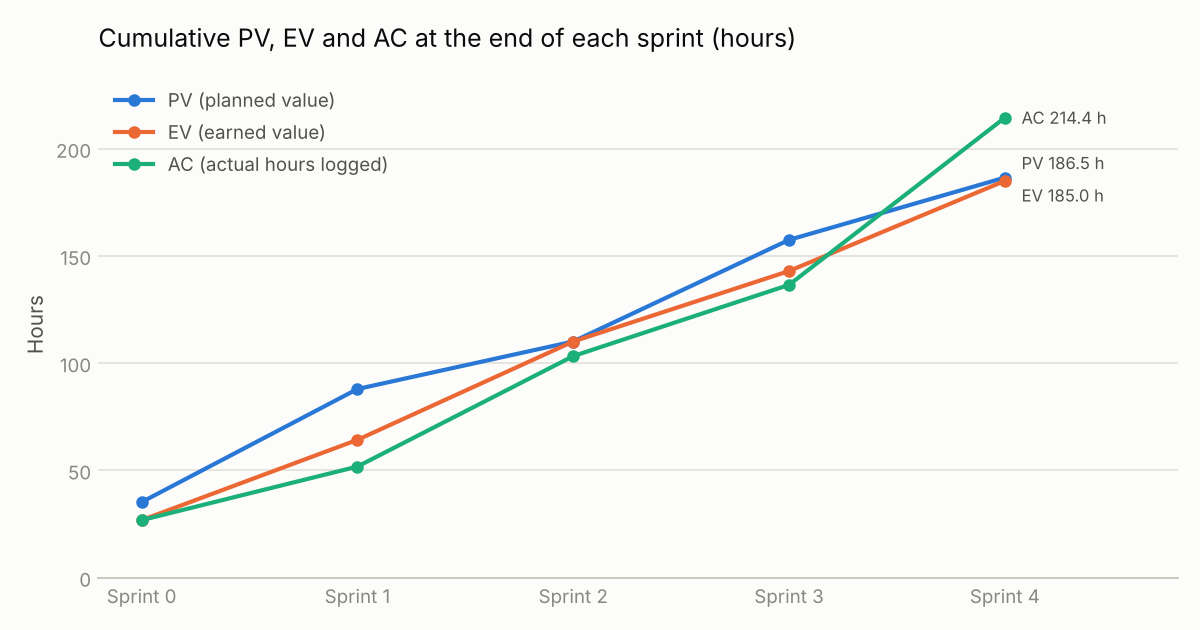
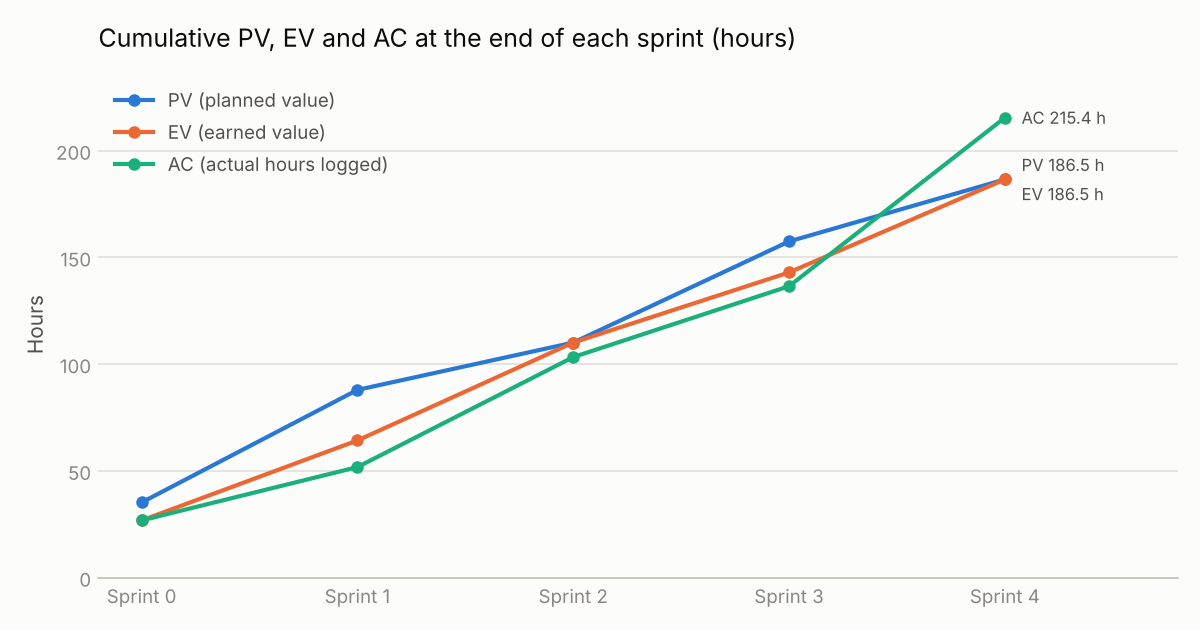
JT-100: record JT-72 as delivered in Sprint 4

diff --git a/docs/pm/sprint-4-review.md b/docs/pm/sprint-4-review.md
@@ -6,9 +6,9 @@
 | Owner | Jigden Shakya (Scrum Master). Backup: Kinley Tobgay Lhendrup |
 | Sprint | Sprint 4 (Jira sprint 38), the last sprint |
 | Sprint dates | 17 Nov 09:00 to 20 Nov 23:59 (extended by one day on 19 Nov; planned end 19 Nov 23:59, AGENTS.md Section 15) |
-| Closed in Jira | After the JT-100 pull request merges, before 20 Nov 23:59; JT-72 then moves to the backlog |
+| Closed in Jira | After the JT-100 pull request merges, before 20 Nov 23:59 |
 | Review and retrospective | Not held as a separate meeting on the last day. Written by Jigden from Jira, UAT and the earlier retrospectives, and reviewed by Phuntsho as Product Owner in the JT-100 pull request |
-| Data source | Jira sprint 38 and issue history, checked on 20 Nov 2026 at 17:15 |
+| Data source | Jira sprint 38 and issue history, checked on 20 Nov 2026 at 19:10 |
 | Related documents | `docs/pm/sprint-3-review.md`, `docs/pm/sprint-4-planning.md`, `docs/pm/earned-value-report.md`, `docs/pm/risk-register.md` (version 1.6), `docs/pm/project-closure-report.md`, `docs/testing/uat-script.md`, `docs/testing/test-summary-report.md`, AGENTS.md (Sections 14 and 15) |
 
 ---
@@ -17,19 +17,19 @@
 
 Goal: End-to-end and load tests, UAT, bug fixes, monitoring, all documentation, feature freeze. Committed minimum: the Must tasks (39 points).
 
-Outcome: met. All 14 Must tasks (39 points) are Done, and 7 of the 8 Should tasks (16 of 18 points). In total 21 of 22 tasks and 55 of 57 points, the highest completion of any sprint. JT-100 is counted as Done because this document is part of it; it is Done when its pull request merges. The goal was met only with the one-day extension agreed on 19 Nov.
+Outcome: met. All 22 tasks and all 57 points are Done: the 14 Must tasks (39 points) and the 8 Should tasks (18 points). It is the only sprint that finished all of its planned work. JT-100 is counted as Done because this document is part of it; it is Done when its pull request merges. The goal was met only with the one-day extension agreed on 19 Nov.
 
 What was delivered:
 
 - The last function, notification-dispatcher (JT-71), and all 5 functions deployed to Knative in k3d with their triggers verified (JT-92). Its Compose forwarder and queue were added by the JT-105 fix.
-- The job-search read model (JT-69), the saved-jobs `job.closed` consumer (JT-70), `ListJobSavers` pagination and the internal interceptor (JT-91), and `job.closed` on moderation removal (JT-90).
+- The audit-log consumer for all domain events (JT-72), the job-search read model (JT-69), the saved-jobs `job.closed` consumer (JT-70), `ListJobSavers` pagination and the internal interceptor (JT-91), and `job.closed` on moderation removal (JT-90).
 - The frontend job pages, job search, saved jobs and notifications (JT-73), the frontend polish with an MUI theme and shared layout (JT-101), the company logo on the company page and job cards (JT-102) and the applicant profile photo (JT-103).
 - Logging of unexpected gRPC errors through `pkg/logging.GRPCError` (JT-66).
 - Prometheus and Grafana in Docker Compose (JT-93), and the architecture and deployment documentation (JT-94).
 - Cypress end-to-end tests of the main workflow against the running Compose stack (JT-95), the JMeter run with 200 concurrent users (JT-96) and the final test summary report (JT-97).
 - UAT for applicant, employer and admin (JT-99), and fixes for all four bugs it found (JT-105 to JT-108).
 
-Not delivered: JT-72 (audit-log consumer, Should, 2 points). Following the slip order (AGENTS.md Section 14), it is recorded as not delivered instead of moving, because there is no Sprint 5. See Section 3.
+Not delivered: nothing. JT-72 (audit-log consumer), last in the slip order, was started on the evening of 20 Nov while JT-100 was in review and merged at 19:07 (PR #102).
 
 ---
 
@@ -38,14 +38,14 @@ Not delivered: JT-72 (audit-log consumer, Should, 2 points). Following the slip 
 | Measure | Tasks | Story points |
 |---|---|---|
 | Planned | 22 | 57 |
-| Done in Sprint 4 | 21 | 55 |
-| Not delivered | 1 (JT-72) | 2 |
+| Done in Sprint 4 | 22 | 57 |
+| Not delivered | 0 | 0 |
 | Must (High): planned / done | 14 / 14 | 39 / 39 |
-| Should (Medium): planned / done | 8 / 7 | 18 / 16 |
+| Should (Medium): planned / done | 8 / 8 | 18 / 18 |
 
-- Velocity (story points Done in the sprint): 55, compared with 43 in Sprint 3, 60 in Sprint 2 (over 5 days), 49 in Sprint 1 and 35 in Sprint 0.
+- Velocity (story points Done in the sprint): 57, compared with 43 in Sprint 3, 60 in Sprint 2 (over 5 days), 49 in Sprint 1 and 35 in Sprint 0.
 - Velocity per day: about 14 over 4 days (17 to 20 Nov), the same as Sprint 3.
-- Completion: 21 of 22 tasks (95 percent) and 55 of 57 points (96 percent).
+- Completion: 22 of 22 tasks and 57 of 57 points (100 percent).
 - Hours logged in the sprint: see `docs/pm/earned-value-report.md` Section 3. Sprint 4 had the highest hours per point of any sprint, because it was mostly testing, UAT and documentation and included bug fixes without points.
 - R1 day 2 check (18 Nov, 17:00): 2 of 57 points Done or In Review, below the trigger of 29, so the trigger fired. At midday on 19 Nov 22 of 39 Must points were Done, which led to the one-day extension agreed by Phuntsho and Jigden (JT-67).
 - Work without points in the sprint: JT-104 (SonarQube finding) and the UAT bugs JT-105 to JT-108. Their hours count as actual cost but they add no points.
@@ -58,15 +58,15 @@ By Jira assignee on 20 Nov.
 |---|---|---|---|---|---|
 | Phuntsho Namgyel | 14 | 5 of 5 (JT-66, JT-73, JT-93, JT-94, JT-101) | 14 | | JT-106, JT-107, JT-108 |
 | Kinley Tobgay Lhendrup | 15 | 5 of 5 (JT-84, JT-95, JT-96, JT-97, JT-103) | 15 | | JT-104 |
-| Jigden Shakya | 16 | 7 of 8 (JT-67, JT-70, JT-90, JT-98, JT-99, JT-100, JT-102) | 14 | JT-72 (2) | |
+| Jigden Shakya | 16 | 8 of 8 (JT-67, JT-70, JT-72, JT-90, JT-98, JT-99, JT-100, JT-102) | 16 | | |
 | Sangay Tenzin | 12 | 4 of 4 (JT-69, JT-71, JT-91, JT-92) | 12 | | JT-105 |
-| Total | 57 | 21 of 22 | 55 | 2 | 5 bugs |
+| Total | 57 | 22 of 22 | 57 | 0 | 5 bugs |
 
 ---
 
 ## 3. Task outcomes
 
-Owner is the Jira assignee. Status as of 20 Nov 2026, 17:15.
+Owner is the Jira assignee. Status as of 20 Nov 2026, 19:10.
 
 | Key | Summary | Owner | Priority | Points | Result |
 |---|---|---|---|---|---|
@@ -75,7 +75,7 @@ Owner is the Jira assignee. Status as of 20 Nov 2026, 17:15.
 | JT-69 | Job-search: build the read model from job events (carried over) | Sangay | Must | 2 | Done |
 | JT-70 | Saved-jobs: consume job.closed (carried over) | Jigden | Should | 1 | Done |
 | JT-71 | Implement notification-dispatcher Knative function (carried over) | Sangay | Must | 5 | Done (Compose event delivery fixed in JT-105) |
-| JT-72 | Audit-log: consume all domain events (carried over) | Jigden | Should | 2 | Not delivered |
+| JT-72 | Audit-log: consume all domain events (carried over) | Jigden | Should | 2 | Done (PR #102, 20 Nov) |
 | JT-73 | Frontend: employer job pages, job search, saved jobs and notifications (carried over) | Phuntsho | Must | 3 | Done |
 | JT-84 | Sprint 3 SonarQube run and JMeter deadline-rush scenario preparation (carried over) | Kinley | Should | 2 | Done |
 | JT-90 | job-posting: removing a job through moderation does not publish job.closed (bug) | Jigden | Must | 2 | Done |
@@ -105,9 +105,7 @@ Owner is the Jira assignee. Status as of 20 Nov 2026, 17:15.
 
 ### Not delivered
 
-| Key | Summary | Owner | Points | Reason |
-|---|---|---|---|---|
-| JT-72 | Audit-log: consume all domain events | Jigden | 2 | Last in the agreed slip order (among Jigden's tasks it slips before JT-67 and JT-70); not started, so that the Must work, JT-102 and the closure documents were finished first. Audit-log has no consumer (`services/audit-log` has only the template publisher, checked on 20 Nov), so the admin audit log page stays empty and UAT-AD-07 could not be run. Jira links three merged pull requests to JT-72, but no commit on `main` carries its key and none of them adds the consumer |
+None. The slip order (JT-66 first, then JT-102 and JT-103, then the other Should tasks; among Jigden's, JT-72 before JT-67 and JT-70) was prepared but in the end no task had to be dropped.
 
 ### Work outside the sprint
 
@@ -122,7 +120,7 @@ UAT (JT-99, 19 Nov 2026, `docs/testing/uat-script.md`, PR #88): 34 scenarios, 29
 Not run:
 
 - UAT-AP-05: no job alert existed before the job was published, so the alert match could not be observed.
-- UAT-AD-07: the audit log stays empty without the audit-log consumer (JT-72, not delivered).
+- UAT-AD-07: the audit log was empty because the audit-log consumer did not exist yet. JT-72 added it on 20 Nov and verified in Docker Compose that an admin sees a new event in the audit log; the UAT scenario itself was not rerun.
 
 Product Owner sign-off (Phuntsho, 19 Nov 2026): Accepted with conditions. All conditions were met by 20 Nov 23:59.
 
@@ -138,18 +136,17 @@ Known issues at closure: none from UAT. The remaining limitations are listed in 
 Future improvements (not part of this project):
 
 - Employer access to applicant resumes during review (AGENTS.md Section 16 open question). Approved for backlog consideration only; no Jira issue yet. Needs Phuntsho's authorisation and a contract review.
-- The audit-log consumer (JT-72), in the backlog.
 
 ---
 
 ## 5. What went well
 
 - Every Must task was finished, including all three Sprint 3 carryover Musts (JT-69, JT-71, JT-73). Sangay finished all four of his Must tasks, including the deployment path JT-71 then JT-92.
-- 7 of 8 Should tasks were delivered as well, so only 2 of 57 points were dropped. Sprint 4 had the highest completion rate of the project.
+- All 8 Should tasks were delivered as well, so no points were dropped. Sprint 4 is the only sprint that finished all of its planned work.
 - All 5 functions run on Knative in k3d with their triggers verified (JT-92), meeting the agreed WEB303 deployment scope.
 - The Sprint 3 testing gap was closed: Cypress runs the main workflow against the real Compose stack (JT-95), the 200-user JMeter run finished with 0 errors (JT-96), monitoring is in place (JT-93), and `application` and `application-status` meet the 80 percent coverage target (JT-97).
 - UAT with the Product Owner verified the core workflow, and all four bugs it found were fixed within about a day, including the two that were only expected to be documented.
-- The slip order agreed on 18 Nov was clear, so the one task that did not fit was dropped without discussion.
+- The slip order agreed on 18 Nov made clear which task would go first, so the team could finish the Must work and the closure documents before starting JT-72, the last Should task.
 
 ---
 
@@ -170,20 +167,20 @@ These are the final retrospective points. Because there is no next sprint, they 
 
 | Sprint 3 action | Result |
 |---|---|
-| Reassign the carryovers: JT-73 to Phuntsho, JT-72 and JT-70 to Jigden, with Sangay reviewing | Done at Sprint 4 planning on 17 Nov. JT-73 and JT-70 were Done; JT-72 was not delivered |
+| Reassign the carryovers: JT-73 to Phuntsho, JT-72 and JT-70 to Jigden, with Sangay reviewing | Done at Sprint 4 planning on 17 Nov. JT-73, JT-70 and JT-72 were all Done |
 | Check every Must task at each stand-up and reassign through the handover rule the same day | All Must tasks were finished, so no further reassignment was needed; the remaining Musts were covered by the one-day extension |
-| Follow the slip order: JT-66, then JT-102 and JT-103, then other Should tasks; never cut a Must | Followed: no Must was cut. JT-66, JT-102 and JT-103 were finished in the end, and only JT-72, last among Jigden's Should tasks, slipped |
+| Follow the slip order: JT-66, then JT-102 and JT-103, then other Should tasks; never cut a Must | Followed: no Must was cut. JT-72, last among Jigden's Should tasks, was left until the Must work and JT-100 were in review, and was then finished on 20 Nov |
 | Replace the stubbed Cypress tests with real end-to-end tests against Docker Compose (JT-95) | Done |
 | Add Prometheus and Grafana to Docker Compose (JT-93) | Done |
-| Record unfinished Should tasks as not delivered in the closure report (JT-100) | Done in Section 3 and in the closure report |
+| Record unfinished Should tasks as not delivered in the closure report (JT-100) | Not needed: every Should task was finished (Section 3) |
 | Estimate every task before it is added to the sprint, including bugs | Not met: JT-104 to JT-108 have no points |
-| Verify each new event end to end in Docker Compose before moving its task to Done | Not met for JT-71 (found in UAT as JT-105); met for JT-70 and JT-90 |
+| Verify each new event end to end in Docker Compose before moving its task to Done | Not met for JT-71 (found in UAT as JT-105); met for JT-70, JT-72 and JT-90 |
 
 ---
 
 ## 8. Risks
 
-- R1 (schedule overrun): occurred. The day 2 trigger fired on 18 Nov and Sprint 4 needed a one-day extension; with it, all Must work and all but one Should task were finished.
+- R1 (schedule overrun): occurred. The day 2 trigger fired on 18 Nov and Sprint 4 needed a one-day extension; with it, all planned work was finished.
 - R6 (uneven workload): the reassignment on 17 Nov worked; every member finished all their Must tasks.
 - R2 (Knative and RabbitMQ): all 5 functions were deployed and their triggers verified in k3d (JT-92), and the Compose forwarder for notification-dispatcher was added in JT-105.
 - R8 (load test): the 200-user run finished with 0 errors without straining the host (JT-96).
@@ -193,6 +190,5 @@ These are the final retrospective points. Because there is no next sprint, they 
 
 ## 9. Open items at close
 
-- JT-72 (audit-log consumer) is in the backlog; until it is built, the admin audit log page stays empty.
 - AGENTS.md Section 16 still says notification-dispatcher has no Compose forwarder; JT-105 (PR #90) added it, so that line should be removed in the next AGENTS.md update.
 - Sprint 4 is closed in Jira after this pull request merges.

diff --git a/docs/pm/project-closure-report.md b/docs/pm/project-closure-report.md
@@ -30,8 +30,8 @@ The project is the combined final project for WEB303 (Microservices and Serverle
 | Start | 28 Oct 2026 (proposal plan) | 2 Nov 2026 (moved on 1 Nov because of other coursework) |
 | Completion | 17 Nov 2026 (5 Nov baseline) | 20 Nov 2026 (revised to 19 Nov on 11 Nov, extended to 20 Nov on 19 Nov) |
 | Team | 4 members in two pairs | 4 members; work reassigned within pairs on 9 Nov and 17 Nov, ownership unchanged |
-| Scope | 244 story points in Jira (Sprints 0 to 4) | 242 points Done; only JT-72 (2 points) not delivered |
-| Effort | No hours were planned; baseline 186.5 h at the Sprint 0 rate | 214.4 h logged in Jira |
+| Scope | 244 story points in Jira (Sprints 0 to 4) | 244 points Done; all planned work delivered |
+| Effort | No hours were planned; baseline 186.5 h at the Sprint 0 rate | 215.4 h logged in Jira |
 | System | 20 microservices, gateway, 5 Knative functions, React frontend | All built; the 20 services and the gateway run in Docker Compose, the 5 functions run on Knative in k3d |
 | Tools | Jira (space JT), GitHub, GitHub Actions | As planned |
 
@@ -44,7 +44,7 @@ The project is the combined final project for WEB303 (Microservices and Serverle
 | O1 | Establish the development foundation and contracts | Repo, `.proto` contracts for all 20 services, golden template, CI, Docker Compose and a proven cluster setup by 3 Nov | Contracts for all 20 services were agreed in PR #6 on 3 Nov; golden template, CI and Compose were set up in Sprint 0. The cluster spike (JT-29) was verified on 7 Nov, four days after Sprint 0 ended, and selected the forwarder fallback for RabbitMQ events | Met, with the cluster setup late |
 | O2 | Build and deploy the full system | All 20 microservices, the gateway, 5 functions and the frontend running; the main workflow works end to end on the k3d cluster | The main workflow was verified end to end in Docker Compose by Cypress (JT-95) and UAT (JT-99), with notifications working after JT-105. On 18 Nov the Product Owner agreed a reduced k3d scope: all 5 functions run on Knative in k3d (JT-92) and the 20 services stay in Docker Compose, because capacity for all 20 services in k3d was not proven | Partly met: the workflow runs in Compose, not on k3d (agreed change) |
 | O3 | Prove quality through systematic testing | At least 80 percent line coverage on `application` and `application-status`; contract checks in CI; Cypress end-to-end tests; JMeter load test with 200 users; results documented | Coverage (unit plus integration): `application` 94.4 percent, `application-status` 91.1 percent. `buf breaking` and 34 contract tests run in CI. 192 Cypress GUI tests run in CI, and the 11-step end-to-end workflow passes against the running stack (JT-95). The 200-user JMeter run had 0 errors (JT-96). On the final `main` all 1,383 Go test functions pass. Results are in `docs/testing/test-summary-report.md` (JT-97) | Met |
-| O4 | Manage the project with Scrum and PMBOK artefacts | Ceremonies held; Jira current with time logged; risk register reviewed every retrospective; earned value from Jira time logs; lessons learned at closure | Planning, reviews and retrospectives were recorded for Sprints 1 to 4 (the Sprint 3 review was held within Sprint 4 planning, the Sprint 4 review was written and reviewed in its pull request, and Sprint 0 has no review record). Every issue except JT-72 has hours logged. The risk register was reviewed at every review (versions 1.0 to 1.6). Earned value: `docs/pm/earned-value-report.md`. Lessons learned: Section 11 | Met, with gaps in the ceremony records |
+| O4 | Manage the project with Scrum and PMBOK artefacts | Ceremonies held; Jira current with time logged; risk register reviewed every retrospective; earned value from Jira time logs; lessons learned at closure | Planning, reviews and retrospectives were recorded for Sprints 1 to 4 (the Sprint 3 review was held within Sprint 4 planning, the Sprint 4 review was written and reviewed in its pull request, and Sprint 0 has no review record). Every issue has hours logged. The risk register was reviewed at every review (versions 1.0 to 1.6). Earned value: `docs/pm/earned-value-report.md`. Lessons learned: Section 11 | Met, with gaps in the ceremony records |
 
 ---
 
@@ -69,6 +69,7 @@ The project is the combined final project for WEB303 (Microservices and Serverle
 - 5 Knative functions: notification-dispatcher, email-sender, weekly-summary, resume-validator and deadline-reminder, deployed to k3d with their triggers verified (JT-92).
 - Domain events over RabbitMQ with transactional outboxes, idempotent consumers and a shared retry and dead-letter policy (JT-56, JT-61).
 - React frontend for applicants, employers and admins (JT-78, JT-83, JT-88, JT-73), with a shared MUI theme (JT-101), company logos (JT-102), applicant profile photos (JT-103) and sessions kept across page reloads (JT-106).
+- Audit-log consumes every domain event (JT-72), so the admin audit log page shows the event history.
 - Docker Compose for local running, CI with GitHub Actions, Prometheus and Grafana in Compose (JT-93) and logging of unexpected gRPC errors (JT-66).
 - Tests: unit, integration (Testcontainers), contract, Cypress GUI and end-to-end against the Compose stack, the JMeter load test and SonarQube runs.
 
@@ -77,7 +78,6 @@ The project is the combined final project for WEB303 (Microservices and Serverle
 | Item | Charter reference | What happened | Decision |
 |---|---|---|---|
 | Main workflow on the k3d cluster | O2 | 20 services stay in Docker Compose; only the 5 functions run in k3d | Agreed with the Product Owner on 18 Nov (AGENTS.md Section 15); to be confirmed against the WEB303 requirements (Phuntsho) |
-| Audit-log consumer (JT-72, Should, 2 points) | Section 4.1, Audit Log | Not started; audit-log stores no events, so the admin audit log page is empty | Recorded as not delivered following the Sprint 4 slip order; in the backlog |
 | Recording interview outcomes | Section 4.1, Interview | `interview.proto` has no outcome field or RPC; only scheduling and reading were built (JT-52) | Needs a contract change; not agreed (AGENTS.md Section 16) |
 | Employer view of applicant resumes | Section 3, review step | `GetResume` and `DownloadResume` are owner only | Open question; backlog consideration only (Section 10) |
 | Kubernetes manifests for the 20 services | Section 5, development; AGENTS.md Section 8 | `deploy/k8s` has only the `service-template` base; no service has Kustomize manifests | Follows from the reduced k3d scope agreed on 18 Nov, where the services run only in Docker Compose |
@@ -110,11 +110,11 @@ Baseline: the Option B dates agreed on 5 Nov 2026. Revised: the schedule agreed 
 | M2 Sprint 1 complete | 8 Nov | 8 Nov | 8 Nov | Goal partly met: 15 of 26 tasks, 49 of 80 points |
 | M3 Sprint 2 complete | 11 Nov | 13 Nov | 13 Nov | Goal met with the two-day extension: 60 of 60 points |
 | M4 Sprint 3 complete | 14 Nov | 16 Nov | 16 Nov | Goal not met: 17 of 25 tasks, 43 of 62 points, 34 of 44 Must points |
-| M5 Sprint 4 complete | 17 Nov | 19 Nov | 20 Nov | Goal met with the one-day extension: 21 of 22 tasks, 55 of 57 points, all 39 Must points |
+| M5 Sprint 4 complete | 17 Nov | 19 Nov | 20 Nov | Goal met with the one-day extension: all 22 tasks and 57 points |
 | M6 Project completion | 17 Nov | 19 Nov | 20 Nov | Three days later than the baseline |
 | M7 Final presentation | To be announced | To be announced | Not yet | Open (R10) |
 
-Velocity (story points Done): 35, 49, 60, 43 and 55 in Sprints 0 to 4. The velocity chart, the burndown charts for every sprint and the per-sprint figures are in `docs/pm/earned-value-report.md`.
+Velocity (story points Done): 35, 49, 60, 43 and 57 in Sprints 0 to 4. The velocity chart, the burndown charts for every sprint and the per-sprint figures are in `docs/pm/earned-value-report.md`.
 
 ---
 
@@ -126,14 +126,14 @@ The project had no funding (charter Section 8). Cost is measured as hours logged
 |---|---|
 | BAC | 244 points, 186.5 h |
 | PV | 244 points, 186.5 h |
-| EV | 242 points, 185.0 h |
-| AC | 214.4 h |
-| SV | -2 points (-1.5 h) |
-| CV | -29.5 h |
-| SPI | 0.99 |
-| CPI | 0.86 |
+| EV | 244 points, 186.5 h |
+| AC | 215.4 h |
+| SV | 0 points (0 h) |
+| CV | -28.9 h |
+| SPI | 1.00 |
+| CPI | 0.87 |
 
-Interpretation: almost all of the planned scope was delivered (SPI 0.99), but only by adding three days to the schedule, which a point-based SPI does not show. The CPI stayed above 1 until Sprint 3 and fell to 0.86 in Sprint 4, which was mostly testing, UAT and documentation and included bug fixes without points: the project used about 15 percent more hours than the Sprint 0 rate predicts.
+Interpretation: all of the planned scope was delivered (SPI 1.00), but only by adding three days to the schedule, which a point-based SPI does not show. The CPI stayed above 1 until Sprint 3 and fell to 0.87 in Sprint 4, which was mostly testing, UAT and documentation and included bug fixes without points: the project used about 16 percent more hours than the Sprint 0 rate predicts.
 
 ---
 
@@ -144,7 +144,7 @@ Interpretation: almost all of the planned scope was delivered (SPI 0.99), but on
 - Load test (JT-96): 200 concurrent users, 2,003 requests, 0 errors; all 200 simultaneous applications were created within about 77 ms.
 - UAT (JT-99, 19 Nov): 34 scenarios, 29 Pass, 3 Fail, 2 Not run; the core workflow was verified end to end with no Critical defects. Product Owner sign-off: Accepted with conditions.
 - All conditions were met by 20 Nov: JT-105 and JT-107 (Major) were fixed and UAT-EM-05, UAT-EM-07 and UAT-AP-07 passed on retest; JT-108 (Major) and JT-106 (Minor), which were only to be documented, were fixed as well.
-- Known issues at closure: no open bug from UAT. UAT-AD-07 (audit log) could not be run because JT-72 was not delivered.
+- Known issues at closure: no open bug from UAT. UAT-AD-07 (audit log) was not run during UAT because the audit-log consumer did not exist yet; JT-72 added it on 20 Nov and verified in Docker Compose that an event appears in the admin audit log, but the UAT scenario itself was not rerun.
 
 ---
 
@@ -166,7 +166,6 @@ All risks are closed out in `docs/pm/risk-register.md` Section 6:
 |---|---|---|
 | Confirm the WEB303 deployment scope against the official assessment requirements | Phuntsho | AGENTS.md Section 16 |
 | Final presentation and submission dates; update milestone M7 | Jigden | R10 |
-| JT-72: audit-log consumer | Jigden, backlog | Section 5.2 |
 | Employer access to applicant resumes; needs Phuntsho's authorisation and a contract review; no Jira issue yet | Phuntsho | AGENTS.md Section 16 |
 | Interview outcome recording (contract change) | Kinley with the team | AGENTS.md Section 16 |
 | NetworkPolicies for internal RPCs in `deploy/k8s` | Sangay | AGENTS.md Section 6 |
@@ -185,7 +184,7 @@ What worked:
 - Writing all `.proto` and event contracts in Sprint 0 let both teams build in parallel, first with mocked ports and later against shared event fixtures.
 - One source of truth (AGENTS.md with its decision log) kept four members and their AI assistants on the same architecture, conventions and decisions.
 - The golden service template and sample tests gave every service the same layout and test style.
-- Making Must tasks the committed minimum, with an agreed slip order, protected the core workflow when time ran short: every Must task in the project was finished.
+- Making Must tasks the committed minimum, with an agreed slip order, protected the core workflow when time ran short: every Must task in the project was finished, and in the final sprint every Should task as well.
 - Recording cross-service dependencies at planning showed the critical paths early.
 - Testing against the real stack in the final sprint (Cypress end to end, JMeter, UAT) found the remaining integration bugs, and they were fixed within a day.
 

diff --git a/docs/pm/risk-register.md b/docs/pm/risk-register.md
@@ -121,12 +121,12 @@ Checked on 20 Nov 2026 at the end of Sprint 4 against each risk's trigger. "Occu
 
 | ID | Risk | Occurred | What happened | Response taken | Result |
 |---|---|---|---|---|---|
-| R1 | Schedule overrun | Yes, in every sprint | Development start moved from 28 Oct to 2 Nov. Sprint 1 delivered 49 of 80 points. Sprint 2 met its goal only with a two-day extension. Sprint 3 missed its committed minimum (34 of 44 Must points) and carried 19 points into Sprint 4. The Sprint 4 day 2 check fired (2 of 57 points on 18 Nov), and Sprint 4 was extended by one day to 20 Nov. Planned completion moved from 17 to 19 and then to 20 Nov | Must tasks as the committed minimum; scope priorities agreed with the Product Owner (12 Nov); planning on measured velocity; Should tasks slipping to the next sprint, then the Sprint 4 slip order; reassignment of the Sprint 3 carryovers (17 Nov); two schedule extensions agreed with the Product Owner | All 39 Must points of Sprint 4 were Done, and 16 of 18 Should points; only JT-72 (2 points) was not delivered. Project completion moved from 17 to 20 Nov. The core workflow was verified end to end in UAT (JT-99). Earned value at completion: see `docs/pm/earned-value-report.md` |
+| R1 | Schedule overrun | Yes, in every sprint | Development start moved from 28 Oct to 2 Nov. Sprint 1 delivered 49 of 80 points. Sprint 2 met its goal only with a two-day extension. Sprint 3 missed its committed minimum (34 of 44 Must points) and carried 19 points into Sprint 4. The Sprint 4 day 2 check fired (2 of 57 points on 18 Nov), and Sprint 4 was extended by one day to 20 Nov. Planned completion moved from 17 to 19 and then to 20 Nov | Must tasks as the committed minimum; scope priorities agreed with the Product Owner (12 Nov); planning on measured velocity; Should tasks slipping to the next sprint, then the Sprint 4 slip order; reassignment of the Sprint 3 carryovers (17 Nov); two schedule extensions agreed with the Product Owner | All 57 points of Sprint 4 were Done, including the 39 Must points; the last Should task (JT-72) merged on the evening of 20 Nov. Project completion moved from 17 to 20 Nov. The core workflow was verified end to end in UAT (JT-99). Earned value at completion: see `docs/pm/earned-value-report.md` |
 | R2 | Knative and RabbitMQ setup | In part | The native Knative RabbitMQSource could not reconcile in the JT-29 spike without extra topology CRDs. All 5 functions were later deployed to k3d and their triggers verified (JT-92). In Docker Compose, notification-dispatcher received no events because its forwarder and queue were missing (JT-105, found in UAT) | Time-boxed spike in Sprint 0 (JT-29); switch to the Go forwarder fallback; shared forwarder with the JT-61 retry and dead-letter policy; decisions recorded in AGENTS.md | Knative on k3d works for all 5 functions. JT-105 was fixed on 19 Nov (PR #90: forwarder and queue added to Compose), and UAT-EM-05 and UAT-EM-07 passed on retest on 20 Nov |
 | R3 | Cluster resources on one laptop | In part | Capacity for all 20 services in k3d was never proven, so only the 5 functions run on Knative in k3d and the 20 services stay in Docker Compose (18 Nov). The full parallel Compose build ran out of memory on a laptop with about 7.75 GiB for Docker; building one image at a time took about 16 minutes. During the 200-user load test (JT-96) the Docker host used at most about a quarter of its CPU allocation and about 42 percent of its memory allocation. Whether pods restarted or were evicted for memory on the cluster host was not confirmed by the risk owner (Sangay) by 20 Nov | One PostgreSQL server; daily work in Compose; functions scale to zero; reduced k3d scope agreed with the Product Owner; images built one at a time | The agreed deployment scope ran on the 16 GiB host. Confirming this scope against the WEB303 requirements is an open action for Phuntsho |
 | R4 | Integration failures between services | Yes | Moderation removals did not publish `job.closed` (JT-90, fixed in Sprint 4). Notification-dispatcher received no events in Compose (JT-105, fixed on 19 Nov). Whether `buf breaking` failed in CI on any PR was not confirmed by the risk owner (Phuntsho) by 20 Nov | Contracts for all 20 services in Sprint 0; `buf lint` and `buf breaking` in CI; shared event fixtures; consumers built against fixtures; end-to-end verification in Compose; real Cypress tests against the Compose stack (JT-95) | The main workflow passed end to end in Cypress (JT-95) and UAT (JT-99), and 34 contract tests pass on the final `main` (JT-97). The two gaps above were found late, in Sprint 3 and in UAT, and both were fixed |
 | R5 | Inconsistent AI-generated code | Not confirmed | The risk owner (Phuntsho) did not confirm by 20 Nov whether any PR added a tool not in AGENTS.md, broke the hexagonal layout or failed CI repeatedly. The final SonarQube run (JT-97) found 0 bugs and 0 vulnerabilities, but its quality gate failed on new code: 25 new code smells and 4.8 percent duplication, mainly template duplication | AGENTS.md attached to every AI session; golden service template; CI with `gofmt`, `go vet` and tests; SonarQube runs (JT-84, JT-97) | No defect from inconsistent code was recorded; the duplication and code smells are maintainability work after the feature freeze |
-| R6 | Member unavailability or uneven workload | Yes | Trigger fired on 9 Nov: Kinley and Sangay were not available at the start of Sprint 2. In Sprint 3 the Done load ranged from 14 to 3 points, and one member held 13 of the 19 carried points | Carryovers reassigned on 9 Nov and handed back; Sprint 3 carryovers reassigned on 17 Nov (JT-73 to Phuntsho, JT-72 and JT-70 to Jigden); Must tasks checked at every stand-up in Sprint 4 | In Sprint 4, Sangay finished all four of his Must tasks (12 points), including the deployment path JT-71 and JT-92. Of the reassigned Should tasks, JT-70 was delivered and JT-72 was not |
+| R6 | Member unavailability or uneven workload | Yes | Trigger fired on 9 Nov: Kinley and Sangay were not available at the start of Sprint 2. In Sprint 3 the Done load ranged from 14 to 3 points, and one member held 13 of the 19 carried points | Carryovers reassigned on 9 Nov and handed back; Sprint 3 carryovers reassigned on 17 Nov (JT-73 to Phuntsho, JT-72 and JT-70 to Jigden); Must tasks checked at every stand-up in Sprint 4 | In Sprint 4, Sangay finished all four of his Must tasks (12 points), including the deployment path JT-71 and JT-92. The reassigned Should tasks JT-70 and JT-72 were both delivered |
 | R7 | Learning curve | Not shown | The trigger (first services taking more than twice their estimate) cannot be measured as written, because estimates were story points, not hours. Sprint 1 used 0.51 h per point Done, the lowest of any sprint (`docs/pm/earned-value-report.md`), so the services that were finished did not take unusually long; but Sprint 1 finished only 49 of 80 points, which is recorded under R1 | Golden template and sample tests (JT-19, JT-20); step-by-step AI guidance following AGENTS.md; pairing on the first services | No delay was attributed to the learning curve |
 | R8 | Load test on one laptop | No | The 200-user deadline-rush run on the Docker Compose stack completed with 2,003 requests and 0 errors. The Docker host (Phuntsho's laptop, 16 GiB RAM, 7.75 GiB for Docker) used at most about a quarter of its CPU allocation and about 42 percent of its memory allocation (`docs/testing/jt-96-load-test-report.md`) | Scenario prepared in Sprint 3 and Sprint 4 (JT-84); JMeter run and reported (JT-96); hardware limits documented in the report | The 200-user deadline-rush run was completed and reported (JT-96) |
 | R9 | Personal data or secret exposure | No | No real personal data or real secret was reported in the repo or a PR. The risk owner (Sangay) did not confirm by 20 Nov | Synthetic data only; JWT and role checks on every request; resume type, size and signature validation; `.env.example` placeholders; internal token never in the gateway or frontend | Avoided |

diff --git a/docs/pm/earned-value-report.md b/docs/pm/earned-value-report.md
@@ -6,7 +6,7 @@
 | Prepared by | Jigden Shakya (Scrum Master and project manager). Backup: Kinley Tobgay Lhendrup |
 | Version | 1.0 |
 | Date | 20 Nov 2026 |
-| Data source | Jira space JT (jobtrack-cst.atlassian.net): story points, sprint membership, status and logged time of all 94 issues, read on 20 Nov 2026 at 18:10 |
+| Data source | Jira space JT (jobtrack-cst.atlassian.net): story points, sprint membership, status and logged time of all 94 issues, read on 20 Nov 2026 at 19:10 |
 | Related documents | `docs/pm/project-closure-report.md`, `docs/pm/sprint-4-review.md`, `docs/pm/project-charter.md` (Section 8), `docs/pm/definition-of-done.md` (time logging) |
 
 ---
@@ -47,8 +47,8 @@ Formulas: SV = EV - PV, CV = EV - AC, SPI = EV / PV, CPI = EV / AC. Because the 
 | Sprint 1 | 6 to 8 Nov | 80 | 69 | 49 | 25.0 | 0.51 | 0.0 |
 | Sprint 2 | 9 to 13 Nov | 60 | 29 | 60 | 51.5 | 0.86 | 2.7 |
 | Sprint 3 | 14 to 16 Nov | 62 | 62 | 43 | 33.2 | 0.77 | 0.0 |
-| Sprint 4 | 17 to 20 Nov | 57 | 38 | 55 | 78.0 | 1.42 | 12.6 |
-| Total | 2 to 20 Nov | | 244 | 242 | 214.4 | 0.89 | 15.3 |
+| Sprint 4 | 17 to 20 Nov | 57 | 38 | 57 | 79.0 | 1.39 | 12.6 |
+| Total | 2 to 20 Nov | | 244 | 244 | 215.4 | 0.88 | 15.3 |
 
 "Committed" counts every issue in the sprint, including carried-over work; "first planned" counts only new work and is the basis of PV.
 
@@ -64,7 +64,7 @@ Story points:
 | Sprint 1 | 115 | 84 | -31 | 0.73 |
 | Sprint 2 | 144 | 144 | 0 | 1.00 |
 | Sprint 3 | 206 | 187 | -19 | 0.91 |
-| Sprint 4 | 244 | 242 | -2 | 0.99 |
+| Sprint 4 | 244 | 244 | 0 | 1.00 |
 
 Hours (points x 0.764):
 
@@ -74,18 +74,18 @@ Hours (points x 0.764):
 | Sprint 1 | 87.9 | 64.2 | 51.7 | -23.7 | +12.5 | 0.73 | 1.24 |
 | Sprint 2 | 110.1 | 110.1 | 103.3 | 0 | +6.8 | 1.00 | 1.07 |
 | Sprint 3 | 157.4 | 142.9 | 136.5 | -14.5 | +6.5 | 0.91 | 1.05 |
-| Sprint 4 | 186.5 | 185.0 | 214.4 | -1.5 | -29.5 | 0.99 | 0.86 |
+| Sprint 4 | 186.5 | 186.5 | 215.4 | 0 | -28.9 | 1.00 | 0.87 |
 
 At completion:
 
 | Measure | Value |
 |---|---|
 | BAC | 244 points, 186.5 h |
-| EV | 242 points, 185.0 h (only JT-72, 2 points, not delivered) |
-| AC | 214.4 h |
-| SPI | 0.99 |
-| CPI | 0.86 |
-| Variance at completion (BAC - AC) | -27.9 h |
+| EV | 244 points, 186.5 h (all planned scope delivered) |
+| AC | 215.4 h |
+| SPI | 1.00 |
+| CPI | 0.87 |
+| Variance at completion (BAC - AC) | -28.9 h |
 | Finish date | 20 Nov 2026: 3 days after the 5 Nov baseline (17 Nov) and 1 day after the revised plan of 11 Nov (19 Nov) |
 
 ---
@@ -110,17 +110,17 @@ Burndown charts, generated from Jira for every sprint: story points of the issue
 
 ![Sprint 4 burndown](charts/sprint-4-burndown.png)
 
-What the burndowns show: in Sprint 0 most tasks were moved to Done on 4 Nov, after the planned end and before the sprint was closed. Sprints 1 and 3 ended with 31 and 19 points left, which were carried into the next sprint. Sprint 2 still had 39 points left at its original end (11 Nov) and reached 0 only in its two extra days. In Sprint 4 only 6 of 57 points were Done by the evening of 18 Nov, and the line caught up with the guideline only on 20 Nov.
+What the burndowns show: in Sprint 0 most tasks were moved to Done on 4 Nov, after the planned end and before the sprint was closed. Sprints 1 and 3 ended with 31 and 19 points left, which were carried into the next sprint. Sprint 2 still had 39 points left at its original end (11 Nov) and reached 0 only in its two extra days. In Sprint 4 only 6 of 57 points were Done by the evening of 18 Nov, and the line caught up with the guideline only on 20 Nov; the 3 points left at the right edge are JT-100, which is Done when this report merges.
 
 ---
 
 ## 6. Interpretation
 
-Schedule. The SPI was below 1 at the end of Sprint 0 (0.76), Sprint 1 (0.73) and Sprint 3 (0.91): each of those sprints finished less than it planned and carried work forward. Sprint 2 brought the SPI back to 1.00, but only with its two-day extension. At completion the SPI is 0.99, because only JT-72 (2 points) was not delivered. A point-based SPI does not show lateness on its own: the scope was finished by adding three days to the schedule (two in Sprint 2, one in Sprint 4), so the project ended on 20 Nov instead of the 17 Nov baseline.
+Schedule. The SPI was below 1 at the end of Sprint 0 (0.76), Sprint 1 (0.73) and Sprint 3 (0.91): each of those sprints finished less than it planned and carried work forward. Sprint 2 brought the SPI back to 1.00, but only with its two-day extension. At completion the SPI is 1.00, because every planned point was delivered, the last one (JT-72) on the evening of 20 Nov. A point-based SPI does not show lateness on its own: the scope was finished by adding three days to the schedule (two in Sprint 2, one in Sprint 4), so the project ended on 20 Nov instead of the 17 Nov baseline.
 
-Cost. Up to Sprint 3 the CPI was above 1 (1.24, 1.07, 1.05): delivered points took fewer logged hours than the Sprint 0 rate. Sprint 4 used 78.0 h for 55 points (1.42 h per point, the highest of any sprint), of which 12.6 h went to bugs and JT-109, which have no points. Sprint 4 was mostly end-to-end and load testing, UAT and documentation. This brought the final CPI down to 0.86: the project used 214.4 h against a baseline of 186.5 h, an overrun of 27.9 h (15 percent).
+Cost. Up to Sprint 3 the CPI was above 1 (1.24, 1.07, 1.05): delivered points took fewer logged hours than the Sprint 0 rate. Sprint 4 used 79.0 h for 57 points (1.39 h per point, the highest of any sprint), of which 12.6 h went to bugs and JT-109, which have no points. Sprint 4 was mostly end-to-end and load testing, UAT and documentation. This brought the final CPI down to 0.87: the project used 215.4 h against a baseline of 186.5 h, an overrun of 28.9 h (16 percent).
 
-Together: the team delivered almost all of the planned scope, but needed three extra days and, measured against the Sprint 0 rate, about 15 percent more effort than planned, most of it in the final sprint.
+Together: the team delivered all of the planned scope, but needed three extra days and, measured against the Sprint 0 rate, about 16 percent more effort than planned, most of it in the final sprint.
 
 ---
 
@@ -129,6 +129,6 @@ Together: the team delivered almost all of the planned scope, but needed three e
 - The cost baseline is the Sprint 0 rate, not a plan the team agreed in advance. A different baseline would change CV and CPI, but not PV, EV, SV or SPI in points.
 - Hours are as logged in Jira. Most issues have one worklog entered when the task was finished, and nine issues have exactly 8 h in a single entry, so some hours are likely rounded rather than measured.
 - AC is counted by sprint, not by day. Hours logged between two sprints count in the sprint the issue belonged to.
-- Time logged on JT-100 after 20 Nov 2026 at 18:10 is not included (1.5 h logged at that time).
+- Time logged on JT-100 after 20 Nov 2026 at 19:10 is not included (1.75 h logged at that time).
 - The charts are drawn from Jira data rather than exported from Jira's report screens. They show each sprint's final scope from its first day, so work added during a sprint is not shown as a separate scope change.
 - Story points are relative estimates by different members, so points per hour are not fully comparable between sprints.
